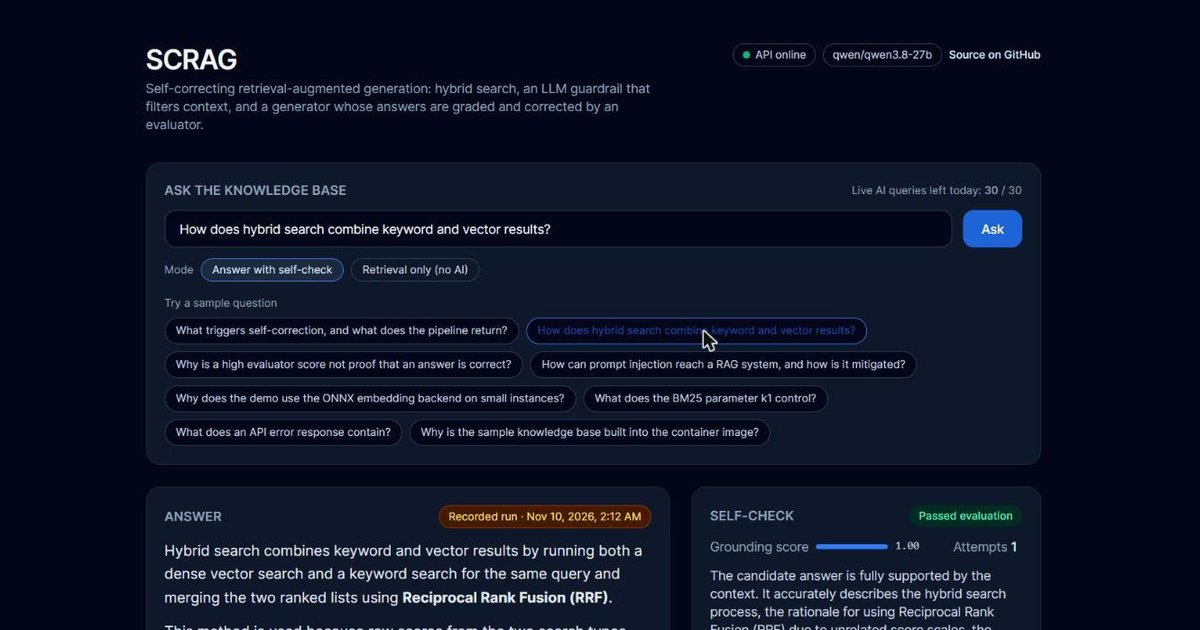
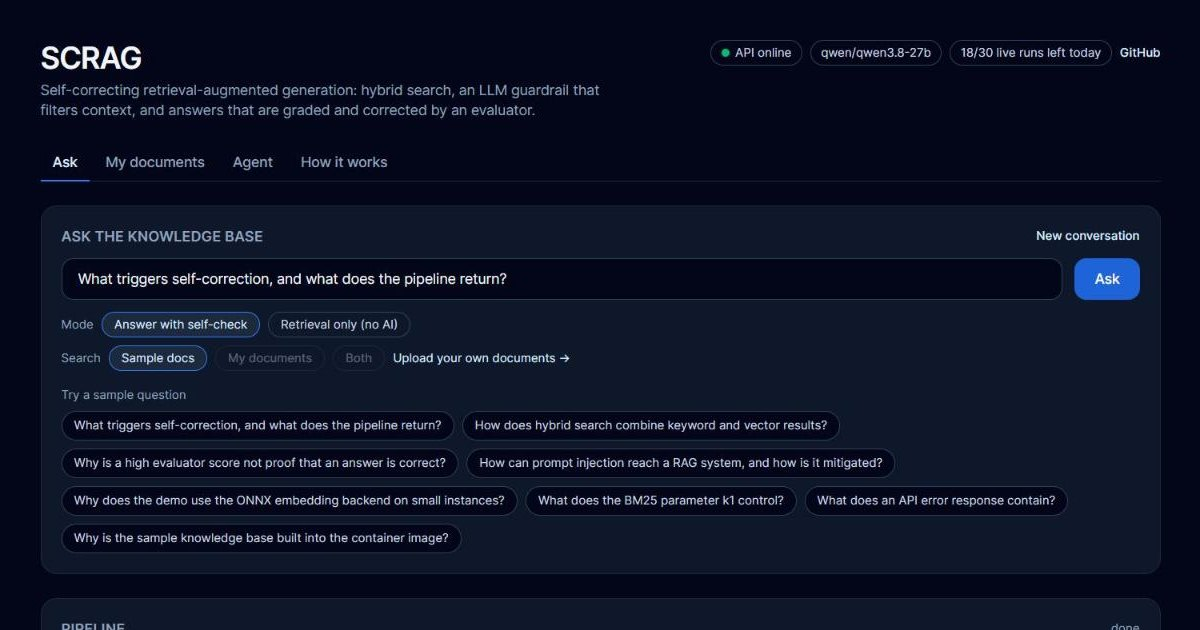
Record the live Phase 5 verification; new screenshot and social preview

diff --git a/docs/planning/DEPLOYMENT_PLAN.md b/docs/planning/DEPLOYMENT_PLAN.md
@@ -90,6 +90,7 @@ put keys in `NEXT_PUBLIC_*` variables.
 
 | Date | Commit | Target | Smoke test result | Notes |
 | --- | --- | --- | --- | --- |
+| 2026-11-10 | `cb5f37d` (`main`, after PR #12, Phase 5) | Render Free + Neon Free; GitHub Pages mirror | Streaming through Render's proxy is incremental and unbuffered: events arrived at 5.8, 7.1, 7.4 and 7.8 s, the first one on a cold instance; `no-transform` left them uncompressed. In Chrome on the live site: a session started, an upload was ready in about 3 s, a session-scoped answer streamed its stages (0.3 to 2.2 s) and was saved to history, a session-scoped agent run completed in 2.1 s (trace streamed live, 540 EUR answer, verification passed, 3 of 6 LLM calls), and "delete all my data" made the old token answer 401 `session_required`. 0 CSP violations, no console errors | The README screenshot and social preview were re-captured from the live run |
 | 2026-11-10 | `a3e3dc9` (`main`, after PR #4) | Render Free + Neon Free (Frankfurt); GitHub Pages mirror | The same Phase 4 live check passed against the `main` deploy (upload ingested in 8.9 s; session-scoped answer correct, evaluation 1.0, 2.3 s; isolation 404s). `scripts/smoke.py`: ALL PASSED. Pages returns 200, and a CORS preflight from its origin is allowed, including `X-Session-Token` | Blueprint branch moved to `main`. The daily budget kept its count across the redeploy (29 left before it, 28 after one more live run): it is persisted in Postgres |
 | 2026-11-10 | `c8ef430` (branch `feat/phase-4-persistence`) | Render Free + Neon Free (Frankfurt) | Phase 4 live check: `/health` reported `persistence: ok` after the worker migrated on startup. Session 0.2 s; upload 0.2 s, ingestion job 7.9 s; a correct session-scoped answer (evaluation 1.0) in 2.4 s with history saved; a second session got 404 for the document and conversation and an empty list; admin stats returned 401 without the token; a deleted session's token returned 401. `scripts/smoke.py`: ALL PASSED | The Blueprint branch moved from `feat/phase-2-retrieval-eval` to `feat/phase-4-persistence` (move it to `main` after the merges). `SCRAG_DATABASE_URL` was set by the maintainer in the Render dashboard |
 | 2026-11-10 | `1e6cdbb` (branch `feat/phase-2-retrieval-eval`) | Render Free: https://scrag-api.onrender.com + https://scrag-web.onrender.com | `scripts/smoke.py --live-query`: ALL PASSED (the sample query was served from the recorded run). One uncached live query passed evaluation in 2.5 s | The first deploy failed 5 smoke checks: the operator token locked out anonymous reads. Fixed in `1e6cdbb`. The UI was verified in Chrome against the live API |

diff --git a/README.md b/README.md
@@ -13,11 +13,13 @@ https://scrag-api.onrender.com, with interactive docs at
 first request can take about a minute. Uploads and history are deleted after 24
 hours; please don't upload personal data.
 
-![The live SCRAG demo answering a sample question: the answer is labelled as a
-recorded run, and the self-check panel shows a passed evaluation](docs/images/live-demo.jpg)
+![The live SCRAG demo after a live run: the pipeline panel lists retrieval, the
+guardrail keeping 3 of 3 chunks, the written answer and its grade of 1.00, next
+to the answer and a passed self-check](docs/images/live-demo.jpg)
 
-*The deployed demo, captured 2026-11-10. Sample questions are answered from
-recorded runs; "Run live" executes the pipeline.*
+*The deployed demo, captured 2026-11-10 during a live run: each pipeline stage
+streams in as it completes. The My documents and Agent tabs add private uploads
+and a tool-using agent.*
 
 [![CI](https://github.com/syed-waleed-ahmed/Self-Correcting-RAG/actions/workflows/ci.yml/badge.svg)](https://github.com/syed-waleed-ahmed/Self-Correcting-RAG/actions/workflows/ci.yml)
 [![CodeQL](https://github.com/syed-waleed-ahmed/Self-Correcting-RAG/actions/workflows/codeql.yml/badge.svg)](https://github.com/syed-waleed-ahmed/Self-Correcting-RAG/actions/workflows/codeql.yml)

diff --git a/docs/planning/IMPLEMENTATION_ROADMAP.md b/docs/planning/IMPLEMENTATION_ROADMAP.md
@@ -33,7 +33,7 @@ adopted (see "Decisions taken" below):
 | 2b | Walking-skeleton deployment (Render + Vercel, bundled index) | **Live** on Render (2026-11-10) |
 | 3 | Agent framework and tool registry | **Done** (UI for agents is part of Phase 5) |
 | 4 | Persistence and identity | **Live** (2026-11-10): Render Free + Neon Free (Frankfurt) |
-| 5 | Frontend | **Done** (2026-11-10): Ask, My documents, Agent and How it works, with SSE streaming |
+| 5 | Frontend | **Live** (2026-11-10): Ask, My documents, Agent and How it works, with SSE streaming |
 | 6 | Observability and evaluation | Not started |
 | 7 | Security hardening, quotas, load tests | Not started |
 | 8 | Full free-tier deployment | Not started |
